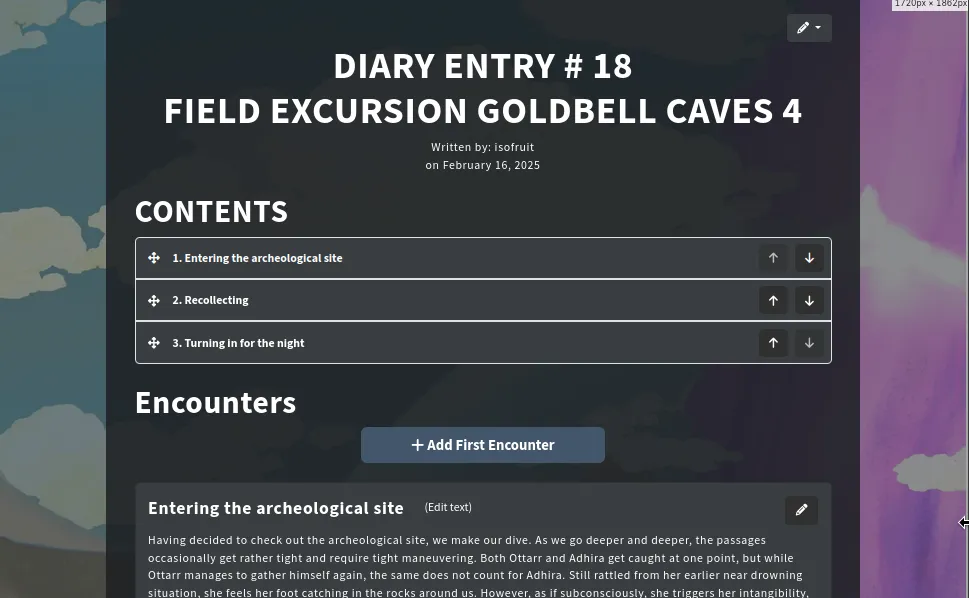
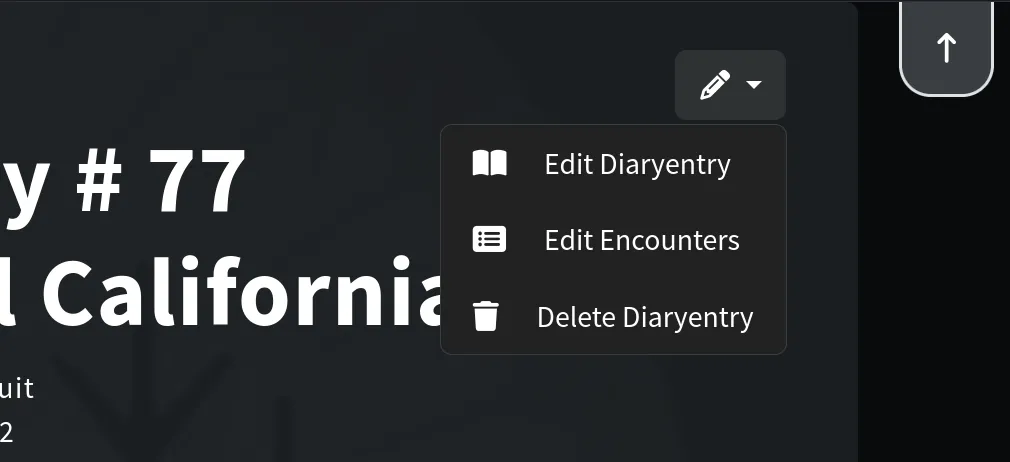
Update onboarding texts

diff --git a/frontend/src/app/global-components/onboarding/onboarding-stepper/onboarding-stepper.component.html b/frontend/src/app/global-components/onboarding/onboarding-stepper/onboarding-stepper.component.html
@@ -19,8 +19,8 @@
         campaigns. This guide will walk you through how to use the app.
       </p>
       <p>
-        Press <strong>Alt + O</strong> if you want to look at it again later.
-        Now let's get started!
+        Press <strong>{{ openOnboardingKeys$ | async }}</strong> if you want to
+        look at it again later. Now let's get started!
       </p>
     </div>
   </cdk-step>
@@ -29,11 +29,11 @@
       <figure>
         <img
           class="stepper__image"
-          [src]="'assets/onboarding/articles_edit.webp'"
-          alt="The first interactable item on article pages is going to be an edit button for the articles metadata, such as its name"
+          [src]="'assets/onboarding/articles_menu.webp'"
+          alt="The first interactable item on article pages is a menu. It contains options to edit article metadata or delete the article entirely"
         />
         <figcaption aria-hidden="true">
-          Fig 2. Edit Button for metadata in a creature article
+          Fig 2. Menu for a creature article
         </figcaption>
       </figure>
       <figure>
@@ -49,21 +49,11 @@
       <figure>
         <img
           class="stepper__image"
-          [src]="'assets/onboarding/articles_delete.webp'"
-          alt="Among the last interactable items on article pages is going to be a delete button. These will always open a modal to ask you if you want to delete the article."
-        />
-        <figcaption aria-hidden="true">
-          Fig 4. Delete button in a creature article
-        </figcaption>
-      </figure>
-      <figure>
-        <img
-          class="stepper__image"
           src="assets/onboarding/articles_create.webp"
           alt="You can create article on the overview pages that you can reach directly through the sidebar navigation."
         />
         <figcaption aria-hidden="true">
-          Fig 5. Create button for creature articles
+          Fig 4. Create button for creature articles
         </figcaption>
       </figure>
       <p>
@@ -78,12 +68,10 @@
           button.
         </li>
         <li>
-          Edit the meta-data, like name of a creature or title of a character,
-          by clicking the "Edit" button in the top-right corner.
+          Edit the meta-data, like name of a creature or title of a character
+          via the edit-action in the menu.
         </li>
-        <li>
-          Delete articles if you have permission (button at the bottom-right).
-        </li>
+        <li>Delete articles via the delete-action in the menu</li>
       </ul>
     </div>
   </cdk-step>
@@ -249,37 +237,37 @@
           class="stepper__image"
         />
         <figcaption aria-hidden="true">
-          Fig 14. Hotkey tooltips show up as you hold down "Alt"
+          Fig 14. Hotkey tooltips show up as you press
+          {{ showHotkeyTooltipsKeys$ | async }}
         </figcaption>
       </figure>
       <figure>
         <img
-          src="assets/onboarding/hotkey_modal.webp"
-          alt="Example of a hotkey usage in a list. While in a list, a specific hotkey will perform the action on the item currently in focus, not all items."
+          src="assets/onboarding/hotkey_settings.webp"
+          alt="Settings for shortcuts in the profile section of the page."
           class="stepper__image"
         />
         <figcaption aria-hidden="true">
-          Fig 15. Alt + H shows an overview over hotkey actions
+          Fig 15. You can customize your shortcuts in your profile settings
         </figcaption>
       </figure>
       <p>
-        Save time with handy hotkeys! Just hold <strong>Alt</strong> to see
-        which buttons or other elements on the screen react to a hotkey. Press
-        "Alt" + the key to perform the action!
+        Save time with handy shortcuts! Just press
+        <strong>{{ openOnboardingKeys$ | async }} </strong> to see which buttons
+        or other elements on the screen react to a hotkey. Press their displayed
+        key-combination to trigger their action!
       </p>
       <p>
-        Need a cheat sheet? Press <strong>Alt + H</strong> to see all available
-        shortcuts.
+        Need a cheat sheet or want to change the default shortcuts? Check out
+        your shortcut section in your profile settings to read more about them
+        and adjust them to your wishes.
       </p>
     </div>
   </cdk-step>
   <cdk-step [label]="'Help make it better!'">
     <div role="slide" aria-roledescription="slide">
       <p>Oops! Something not working right? Let us know!</p>
-      <p>
-        You can report issues directly to the developer or file a bug report on
-        GitHub:
-      </p>
+      <p>You can report issues on GitHub:</p>
       <p>
         <a
           [externalHref]="

diff --git a/frontend/src/app/global-components/onboarding/onboarding-stepper/onboarding-stepper.component.ts b/frontend/src/app/global-components/onboarding/onboarding-stepper/onboarding-stepper.component.ts
@@ -1,12 +1,17 @@
 import { CdkStep, CdkStepperModule } from '@angular/cdk/stepper';
+import { AsyncPipe } from '@angular/common';
 import {
   ChangeDetectionStrategy,
   Component,
   effect,
+  inject,
   input,
   output,
   viewChild,
 } from '@angular/core';
+import { map } from 'rxjs';
+import { encodeKeyCombination } from 'src/app/_functions/keyMapper';
+import { HotkeyService } from 'src/app/_services/hotkey.service';
 import { ButtonComponent } from 'src/app/design/atoms/button/button.component';
 import { ExternalLinkComponent } from 'src/app/design/atoms/external-link/external-link.component';
 import { SuccessAnimationComponent } from 'src/app/design/atoms/success-animation/success-animation.component';
@@ -21,12 +26,15 @@ import { capitalize } from 'src/utils/string';
     SuccessAnimationComponent,
     ButtonComponent,
     ExternalLinkComponent,
+    AsyncPipe,
   ],
   templateUrl: './onboarding-stepper.component.html',
   styleUrl: './onboarding-stepper.component.scss',
   changeDetection: ChangeDetectionStrategy.OnPush,
 })
 export class OnboardingStepperComponent {
+  hotkeyService = inject(HotkeyService);
+
   isCampaignAdmin = input<boolean>();
 
   selectionChange = output<CdkStep>();
@@ -34,6 +42,12 @@ export class OnboardingStepperComponent {
   firstStep = viewChild.required<CdkStep>('firstStep');
 
   host = window ? capitalize(window.location.hostname) : 'Nimstoryfont';
+  openOnboardingKeys$ = this.hotkeyService
+    .getKeySequence('show-onboarding')
+    .pipe(map((keys) => encodeKeyCombination(keys)));
+  showHotkeyTooltipsKeys$ = this.hotkeyService
+    .getKeySequence('show-tooltips')
+    .pipe(map((keys) => encodeKeyCombination(keys)));
 
   constructor() {
     effect(() => this.selectionChange.emit(this.firstStep()));
